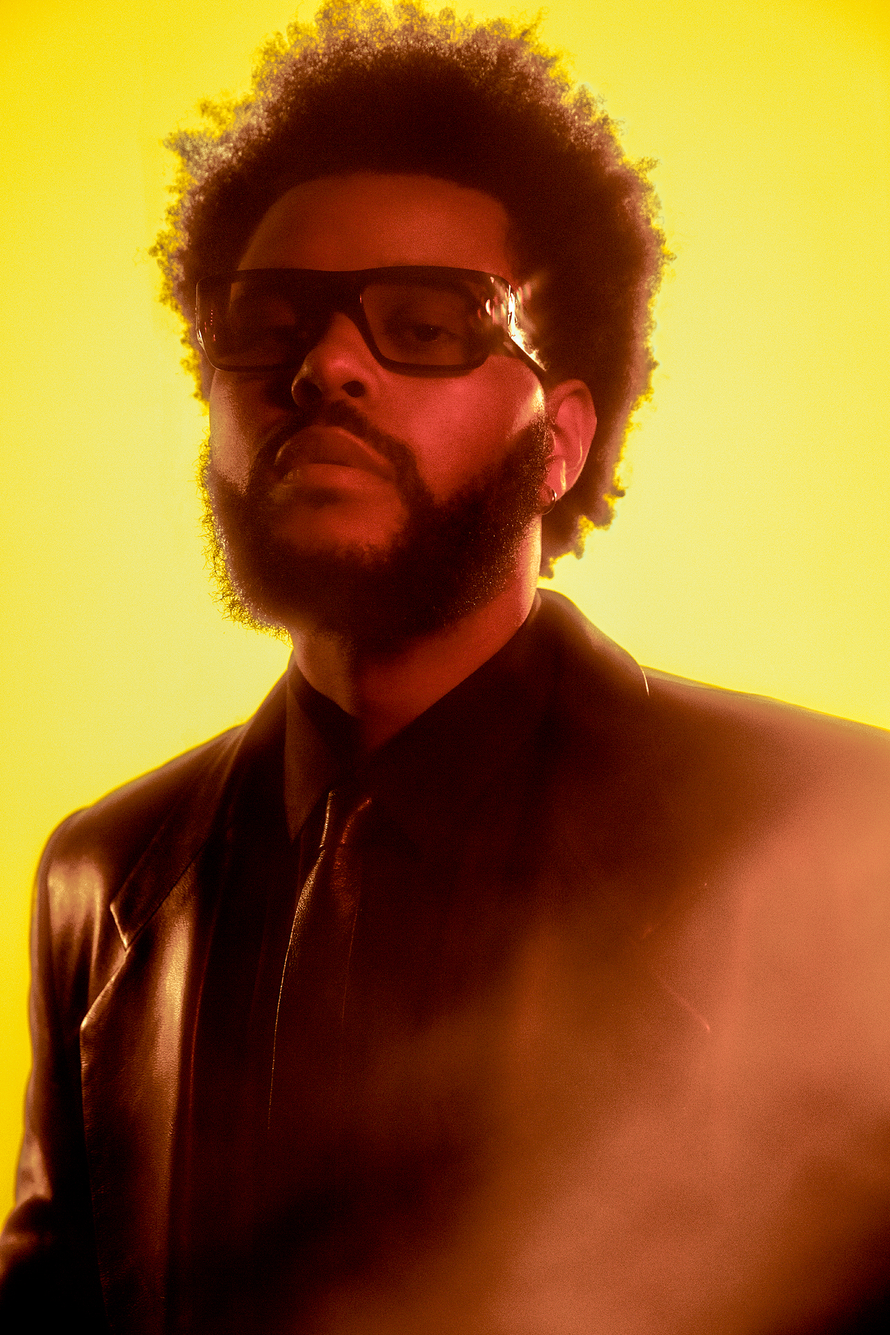
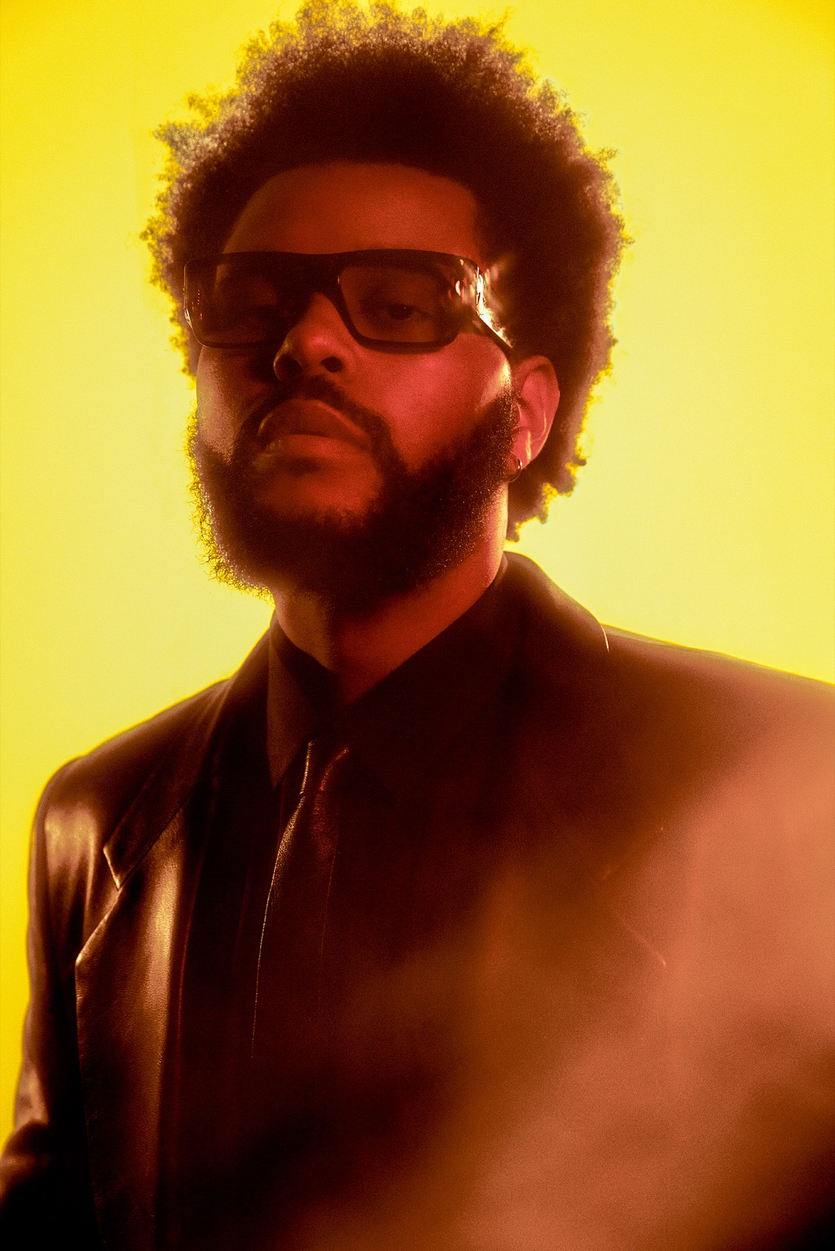
Improve song pages and optimize artist images

Changed region(s): [[0.2157, 0.3733, 0.2465, 0.4356], [0.2465, 0.4356, 0.2773, 0.4667]]

diff --git a/src/lib/artistArtwork.ts b/src/lib/artistArtwork.ts
@@ -293,6 +293,26 @@ const artistPhotos: Record<string, ArtistPhoto> = {
     localPath: "/images/artists/coldplay.jpg",
     personalityRightsWarning: "Living artists depicted. Editorial use is generally safer than endorsement or advertising use."
   },
+  cher: {
+    alt: "Cher in 2019",
+    src: localPhoto("cher.jpg"),
+    sourceUrl: "https://commons.wikimedia.org/wiki/File:Cher_in_2019_cropped.jpg",
+    credit: "Photo via Wikimedia Commons",
+    license: "CC BY-SA 4.0",
+    licenseUrl: "https://creativecommons.org/licenses/by-sa/4.0/",
+    localPath: "/images/artists/cher.jpg",
+    personalityRightsWarning: "Living artist depicted. Editorial use is generally safer than endorsement or advertising use."
+  },
+  "celine-dion": {
+    alt: "Celine Dion in 2000",
+    src: localPhoto("celine-dion.jpg"),
+    sourceUrl: "https://commons.wikimedia.org/wiki/File:Celine_Dion_2000.jpg",
+    credit: "Photo via Wikimedia Commons",
+    license: "CC BY-SA 4.0",
+    licenseUrl: "https://creativecommons.org/licenses/by-sa/4.0/",
+    localPath: "/images/artists/celine-dion.jpg",
+    personalityRightsWarning: "Living artist depicted. Editorial use is generally safer than endorsement or advertising use."
+  },
   "depeche-mode": {
     alt: "Depeche Mode group photo from 2006",
     src: localPhoto("depeche-mode.jpg"),
@@ -301,6 +321,26 @@ const artistPhotos: Record<string, ArtistPhoto> = {
     license: "CC BY-SA 4.0",
     licenseUrl: "https://creativecommons.org/licenses/by-sa/4.0/",
     localPath: "/images/artists/depeche-mode.jpg",
+    personalityRightsWarning: "Living artists depicted. Editorial use is generally safer than endorsement or advertising use."
+  },
+  eurythmics: {
+    alt: "Eurythmics in 1985",
+    src: localPhoto("eurythmics.jpg"),
+    sourceUrl: "https://commons.wikimedia.org/wiki/File:Eurythmics_1985.jpg",
+    credit: "Photo via Wikimedia Commons",
+    license: "Public domain",
+    licenseUrl: "https://commons.wikimedia.org/wiki/File:Eurythmics_1985.jpg",
+    localPath: "/images/artists/eurythmics.jpg",
+    personalityRightsWarning: "Living artists depicted. Public-domain status does not remove publicity or personality-rights considerations."
+  },
+  genesis: {
+    alt: "Genesis performing in Pittsburgh",
+    src: localPhoto("genesis.jpg"),
+    sourceUrl: "https://commons.wikimedia.org/wiki/File:2104_-_Pittsburgh_-_Mellon_Arena_-_Genesis_(cropped).JPG",
+    credit: "Photo via Wikimedia Commons",
+    license: "CC BY-SA 4.0",
+    licenseUrl: "https://creativecommons.org/licenses/by-sa/4.0/",
+    localPath: "/images/artists/genesis.jpg",
     personalityRightsWarning: "Living artists depicted. Editorial use is generally safer than endorsement or advertising use."
   },
   "tears-for-fears": {
@@ -312,6 +352,16 @@ const artistPhotos: Record<string, ArtistPhoto> = {
     licenseUrl: "https://creativecommons.org/licenses/by-sa/3.0/",
     localPath: "/images/artists/tears-for-fears.jpg",
     personalityRightsWarning: "Living artists depicted. Editorial use is generally safer than endorsement or advertising use."
+  },
+  "tina-turner": {
+    alt: "Tina Turner during the 50th Anniversary Tour in 2009",
+    src: localPhoto("tina-turner.jpg"),
+    sourceUrl: "https://commons.wikimedia.org/wiki/File:Tina_Turner_50th_Anniversary_Tour.jpg",
+    credit: "Photo by Philip Spittle via Wikimedia Commons",
+    license: "CC BY-SA 4.0",
+    licenseUrl: "https://creativecommons.org/licenses/by-sa/4.0/",
+    localPath: "/images/artists/tina-turner.jpg",
+    personalityRightsWarning: "Living artist depicted. Editorial use is generally safer than endorsement or advertising use."
   },
   "pearl-jam": {
     alt: "Pearl Jam performing with Chris Cornell in 2011",

diff --git a/src/styles/global.css b/src/styles/global.css
@@ -380,10 +380,66 @@ p {
   line-height: 1.6;
 }
 
+.song-intro-card {
+  gap: 1rem;
+}
+
+.seo-question,
+.song-lead-answer,
+.song-takeaway {
+  margin: 0;
+}
+
+.song-lead-answer {
+  color: var(--text);
+}
+
+.song-takeaway {
+  padding: 0.9rem 1rem;
+  border-radius: 14px;
+  background: rgba(30, 106, 97, 0.08);
+  color: var(--text);
+}
+
+.song-intro-grid {
+  display: grid;
+  grid-template-columns: repeat(2, minmax(0, 1fr));
+  gap: 0.9rem;
+  margin-top: 0.25rem;
+}
+
+.song-intro-panel {
+  padding: 1rem 1.05rem;
+  border: 1px solid var(--border);
+  border-radius: 16px;
+  background: var(--surface-strong);
+}
+
+.song-intro-panel h3 {
+  margin-bottom: 0.25rem;
+  font-size: 1rem;
+}
+
+.song-intro-footer {
+  display: flex;
+  flex-wrap: wrap;
+  justify-content: space-between;
+  gap: 0.75rem 1rem;
+  margin-top: 0.2rem;
+}
+
 .comparison-list {
   display: grid;
   gap: 0.55rem;
   margin-top: 0.8rem;
+}
+
+.comparison-section {
+  border-color: rgba(30, 106, 97, 0.18);
+}
+
+.comparison-summary {
+  margin: -0.3rem 0 0.7rem;
 }
 
 .comparison-row {
@@ -411,6 +467,7 @@ p {
 
 .comparison-current {
   background: rgba(30, 106, 97, 0.08);
+  border-color: rgba(30, 106, 97, 0.25);
 }
 
 .comparison-reason {
@@ -539,6 +596,45 @@ p {
   display: grid;
   gap: 1rem;
   padding: 0 1.2rem 1.2rem;
+}
+
+.compact-context-grid,
+.context-grid {
+  display: grid;
+  gap: 0.85rem;
+}
+
+.compact-context-grid {
+  grid-template-columns: repeat(auto-fit, minmax(220px, 1fr));
+  margin-top: 0.8rem;
+}
+
+.compact-context-card,
+.context-card {
+  padding: 1rem 1.05rem;
+  border: 1px solid var(--border);
+  border-radius: 16px;
+  background: var(--surface-strong);
+}
+
+.compact-context-card {
+  display: grid;
+  gap: 0.35rem;
+}
+
+.compact-context-card strong,
+.context-card h3 {
+  color: var(--text);
+}
+
+.compact-context-card span {
+  color: var(--muted);
+  line-height: 1.6;
+}
+
+.song-context-section .meta-list,
+.context-card .meta-list {
+  margin-top: 0.8rem;
 }
 
 .artist-card-body {
@@ -806,6 +902,11 @@ p {
 
   .song-sidebar {
     position: static;
+  }
+
+  .song-intro-grid,
+  .context-grid {
+    grid-template-columns: 1fr;
   }
 
   .comparison-row {
